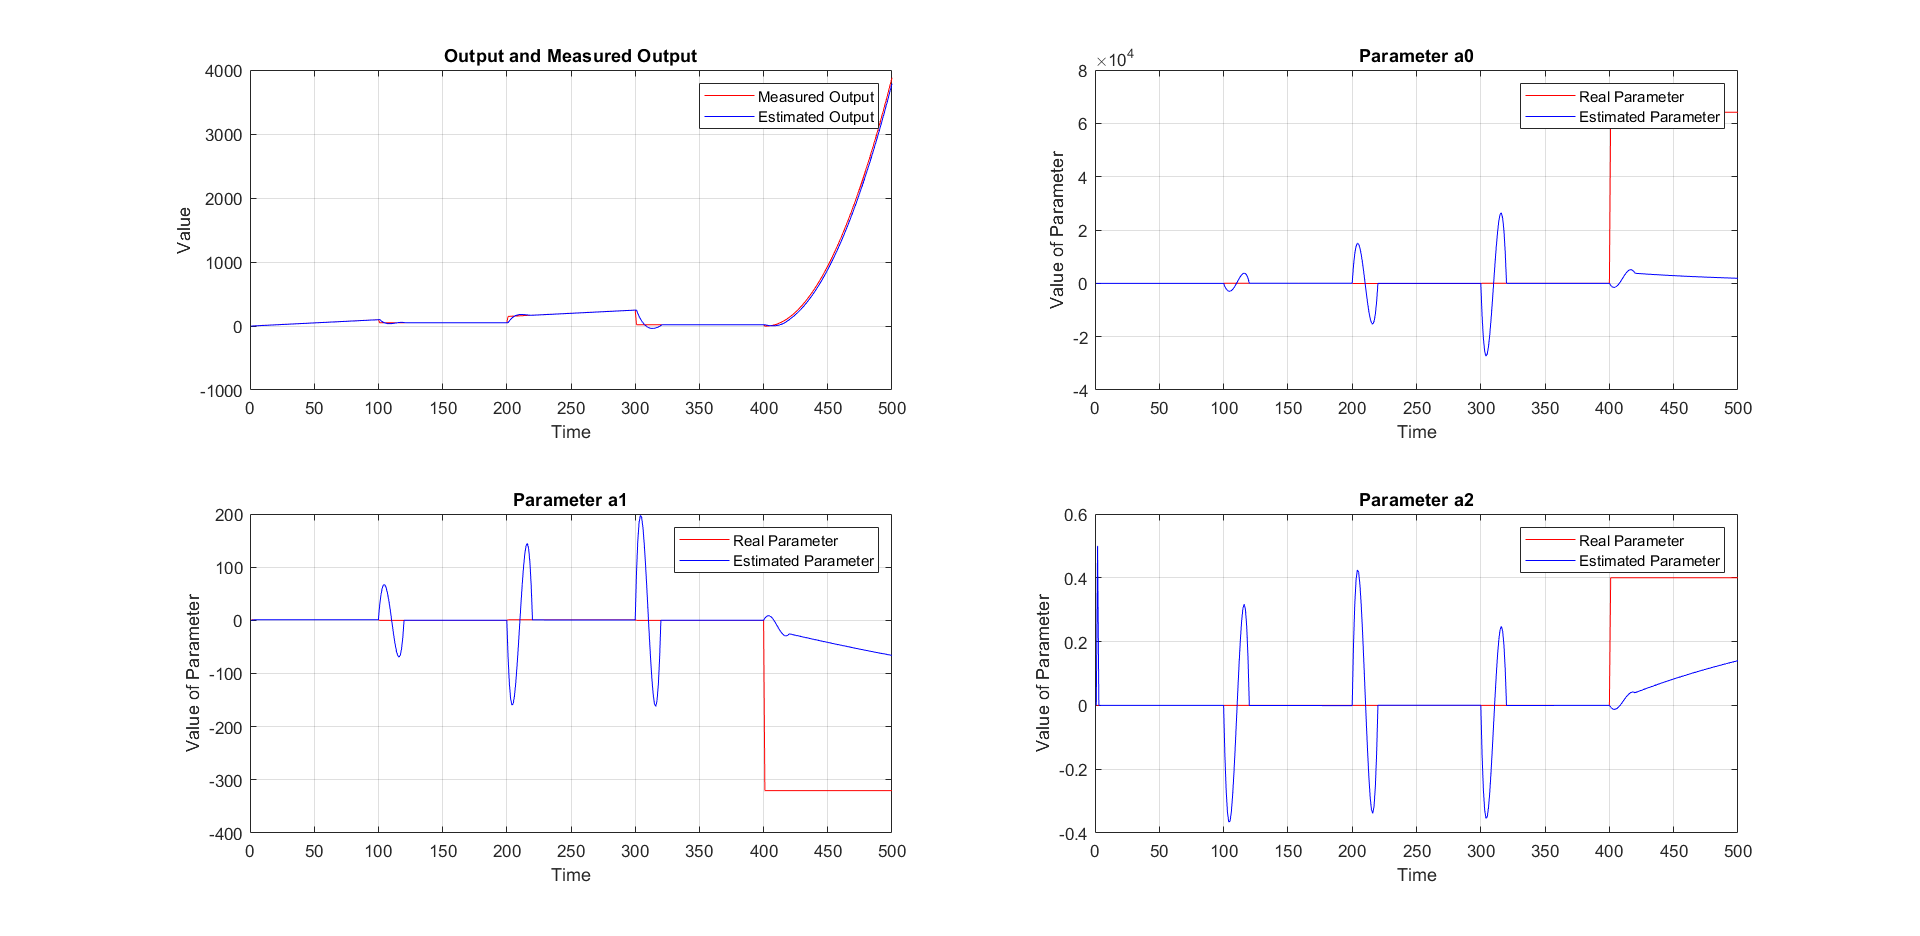
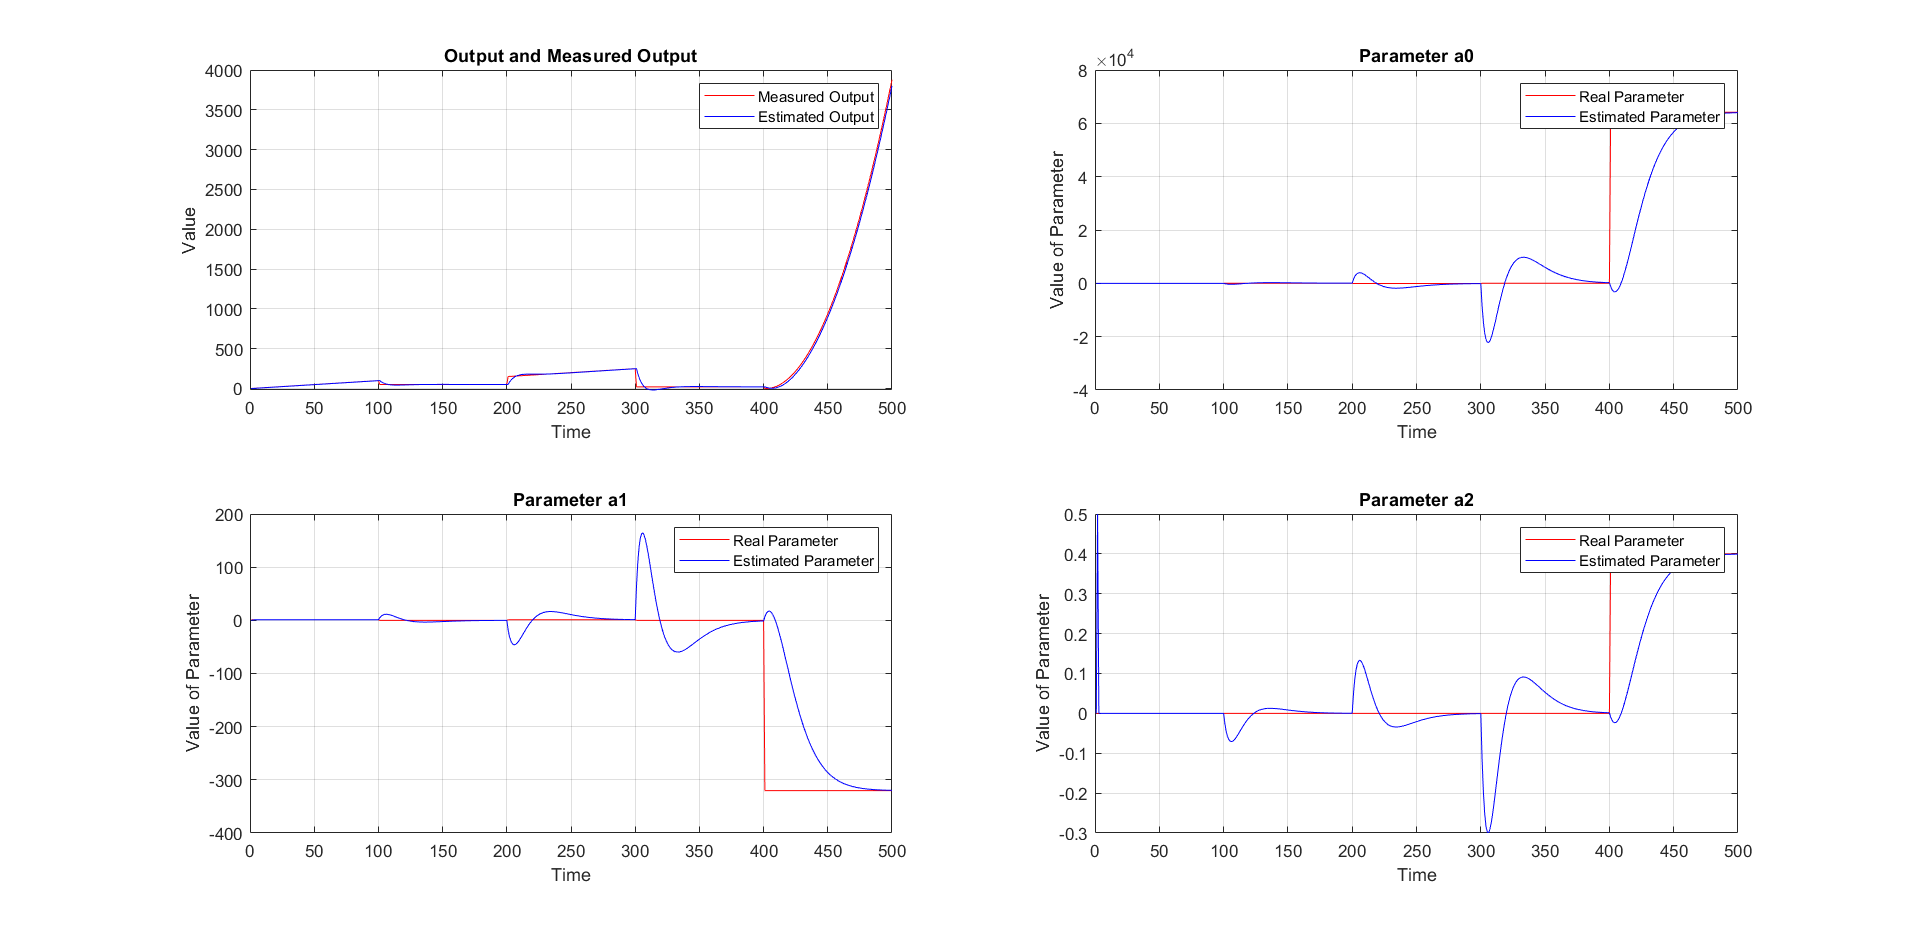
Changes to Matlab code

diff --git a/MATLAB/code/Block_Test.m b/MATLAB/code/Block_Test.m
@@ -1,0 +1,76 @@
+clear all;
+obj = recursiveLS(3, 'History','Finite','WindowLength',70);
+obj.ForgettingFactor = 1;
+
+S1 = load('..\rls\MATLAB\MAT_Files\output.mat');
+S2 = load('..\rls\MATLAB\MAT_Files\input.mat');
+S3 = load('..\rls\MATLAB\MAT_Files\true_a0.mat');
+S4 = load('..\rls\MATLAB\MAT_Files\true_a1.mat');
+S5 = load('..\rls\MATLAB\MAT_Files\true_a2.mat');
+
+output = S1.output();
+noise = wgn(1,500,1);
+output = noise + output;
+
+input  = S2.input();
+true_a0 = S3.true_a0();
+true_a1 = S4.true_a1();
+true_a2 = S5.true_a2();
+
+
+for i = 1:numel(input)
+    H = [input(i)*input(i) input(i) 1];
+    [theta, EstimatedOutput] = obj(output(i),H);
+    estimatedOut(i)= EstimatedOutput;
+    theta_full(i,:) = theta;
+end
+
+figure(1);
+
+frame_h = get(handle(gcf),'JavaFrame');
+set(frame_h,'Maximized',1);
+
+subplot(2,2,1);
+numSample = 1:numel(input);
+plot(numSample,output,'r-');
+hold on 
+plot(numSample,estimatedOut,'b-');
+title('Output and Measured Output');
+xlabel('Time');
+ylabel('Value');
+legend('Measured Output','Estimated Output');
+grid on 
+
+subplot(2,2,2);
+plot(numSample,true_a0,'r-');
+hold on 
+plot(numSample,theta_full(:,3),'b-')
+xlabel('Time');
+ylabel('Value of Parameter');
+title('Parameter a0')
+legend('Real Parameter','Estimated Parameter');
+grid on  
+
+subplot(2,2,3);
+plot(numSample,true_a1,'r-');
+hold on 
+plot(numSample,theta_full(:,2),'b-')
+xlabel('Time');
+ylabel('Value of Parameter');
+title('Parameter a1')
+legend('Real Parameter','Estimated Parameter');
+grid on 
+
+subplot(2,2,4);
+plot(numSample,true_a2,'r-');
+hold on 
+plot(numSample,theta_full(:,1),'b-')
+xlabel('Time');
+ylabel('Value of Parameter');
+title('Parameter a2');
+legend('Real Parameter','Estimated Parameter');
+grid on 
+
+
+
+print('..\rls\MATLAB\images\BlockCheck','-dpng','-r0');
